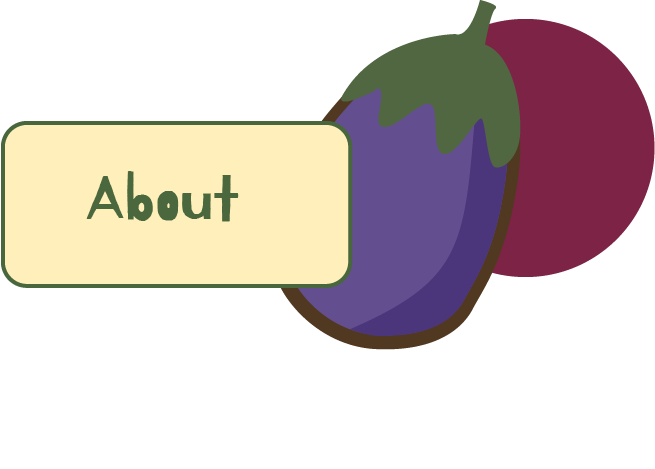
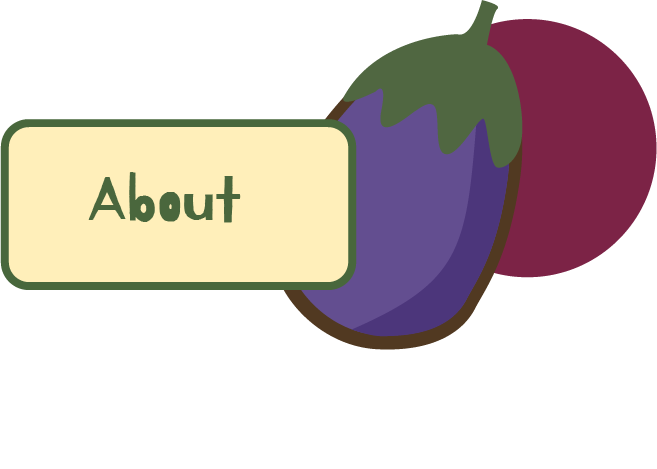
fourth commit

diff --git a/style.css b/style.css
@@ -2,7 +2,6 @@
 * {
     margin: 0;
     padding: 0;
-    /* box-sizing: border-box; */
 }
 
 body {
@@ -91,7 +90,7 @@ nav a.active {
 
 /* About Page Styles */
 .about-container {
-    /* max-width: 900px; */
+
     margin: 0 auto;
     padding: 2rem;
 }
@@ -108,34 +107,24 @@ nav a.active {
 }
 
 .about-icon img {
-    width: 220px;
-    height: 150px; 
+    width: 320px;
+    height: 250px; 
     position: absolute;
     top: 240px;
     left: 240px;
 }
-/* 
-.about-label {
-    background-color: blue;
-    padding: 0.5rem 1rem;
-    border-radius: 20px;
-    color: #4CAF50;
-    font-weight: bold;
-} */
 
 .about-content {
     position: relative;
     background-color: #ffeeba;
-    border: 3px solid #48673c;
+    border: 6px solid #48673c;
     border-radius: 20px;
     padding: 2rem;
     margin-top: 2rem;
 }
 
 .about-text {
-    font-family: "Montserrat", sans-serif;
-    font-optical-sizing: auto;
-    font-style: normal;
+    /* font-family: "Kirang Haerang", system-ui; */
     color: #880044;
     text-align: center;
     font-size: 1.6rem;
@@ -145,13 +134,13 @@ nav a.active {
 
 .info-link {
     position: absolute;
-    bottom: -20px;
-    right: -20px;
+    bottom: -190px;
+    right: -200px;
     display: flex;
     align-items: center;
     gap: 0.5rem;
-    width: max-content;
-    height: max-content; 
+    /* width: max-content;
+    height: max-content;  */
     /* background-color: #ffeeba;
     padding: 0.5rem 1rem;
     border-radius: 20px;
@@ -159,16 +148,19 @@ nav a.active {
     color: #4CAF50;
     font-weight: bold; */
 }
+#further-img {
+    width: 320px;
+    height: 250px; 
+} 
 
-#further-img{
-    width: 200x;
-    height: 400px;
-}
+/* further-img{
+    border: 6px solid black;
+}  */
 
-.info-link img {
+/* .info-link img {
     width: 30px;
     height: 30px;
-}
+} */
 
 /* Recipe Page Styles */
 .recipe-header {
@@ -215,11 +207,15 @@ nav a.active {
     color: #ffeeba;
     padding: 0.5rem 2rem;
     border-radius: 20px;
+    width: 80px;
+    height: 30px;
     text-decoration: none;
     font-weight: bold;
+    font-size: 1.5rem;
 }
 
-.reciple-link a:hover{
+
+ a:hover{
     text-decoration: underline;
 }
 
@@ -233,7 +229,7 @@ nav a.active {
     background-color: #ffeeba;
     border-radius: 20px;
     padding: 1rem;
-    border: 2px solid #48673c;
+    border: 4px solid #48673c;
 }
 
 .recipe-card img {
@@ -404,6 +400,78 @@ nav a.active {
     gap: 2rem;
     /* margin: 2.5rem;
     justify-items: center; */
+}
+
+/* Info page */
+
+.content-row {
+    display: flex;
+    align-items: flex-start;
+    gap: 30px;
+    margin-left: 20px;
+}
+
+.carrot-icon {
+    position: relative;
+    width: 120px;
+    height: 120px;
+    background-color: #FFA07A;
+    border-radius: 60% 60% 30% 30%;
+    transform: rotate(45deg);
+    flex-shrink: 0;
+}
+
+.info-button {
+    position: absolute;
+    top: 50%;
+    left: 50%;
+    transform: translate(-50%, -50%) rotate(-45deg);
+    background-color: var(--accent-yellow);
+    padding: 10px 20px;
+    border-radius: 20px;
+    font-weight: bold;
+}
+
+.resource-cards {
+    display: flex;
+    gap: 30px;
+}
+
+.resource-card {
+    background-color: var(--accent-yellow);
+    border: 3px solid var(--primary-green);
+    border-radius: 30px;
+    padding: 15px;
+    width: 300px;
+}
+
+.resource-card img {
+    width: 100%;
+    height: 150px;
+    object-fit: cover;
+    border-radius: 20px;
+}
+
+.resource-card h3 {
+    margin: 10px 0;
+}
+
+.quick-facts {
+    margin-top: 50px;
+}
+
+.quick-facts h2 {
+    color: var(--primary-burgundy);
+    margin-bottom: 30px;
+}
+
+.fact-container {
+    background-color: var(--accent-yellow);
+    border: 3px solid var(--primary-green);
+    border-radius: 30px;
+    padding: 20px;
+    margin-bottom: 20px;
+    text-align: center;
 }
 
 

diff --git a/about.html b/about.html
@@ -22,16 +22,19 @@
             <div class="about-header">
                 <div class="about-icon">
                     <img src="images/about-vege@2x_1.png" alt="About Icon">
-                    <!-- <span class="about-label">About</span> -->
                 </div>
             </div>
             
             <div class="about-content">
                 <div class="about-text">
-                    Lorem ipsum dolor sit amet, consectetuer adipiscing elit, sed diam nonummy nibh euismod tincidunt ut laoreet dolore magna aliquam erat volutpat. Ut wisi enim ad minim veniam, quis nostrud exerci tation ullamcorper suscipit lobortis nisl ut aliquip ex ea commodo consequat. Duis autem vel eum iriure dolor in hendrerit in vulputate velit esse mo. Lorem ipsum dolor sit amet, consectetuer adipiscing elit, sed diam nonummy nibh euismod tincidunt ut laoreet dolore magna aliquam erat volutpat. Ut wisi enim ad minim veniam, quis nostrud exerci tation ullamcorper suscipit lobortis nisl ut aliquip ex ea commodo consequat. Duis autem vel eum iriure dolor in hendrerit in vulputate velit esse mo. Lorem ipsum dolor sit amet, consectetuer adipiscing elit, sed diam nonummy nibh euismod tincidunt ut laoreet dolore magna aliquam erat volutpat. Ut wisi enim ad minim veniam, quis nostrud exerci tation ullamcorper suscipit lobortis nisl ut aliquip ex ea commodo consequat. Duis autem vel eum iriure dolor in hendrerit in vulputate velit esse mo
+                    An issue that I have always noticed but wasn’t often discussed is the amount of food waste created. As someone who has worked in several different cafes and restaurants the amount of food that is simply thrown out or discarded is absolutely shocking. Similarly I see plenty of food thrown out in households or in halls of residences and other commercial kitchens. I completed a project several years ago that skimmed the surface of this topic but did not offer any solutions so I knew I wanted to try and make a change with this website.
+
+                    This website will walk you through everything you need to know in terms of food waste, Why is it an issue, What you can do to reduce it, recipes, tips and tricks, compost guide all to help save food that would otherwise end up in the bin.
+
+                    I understand Kaitiakitanga as guardianship and protection of the natural land and resources. Any effort to protect or improve our natural world involved kaitiakitanga. In the context of Waste Less, Eat More it provides protection to the land by reducing waste and carbon emissions while looking after the food and resources that come from the land.
                 </div>
                 <div class="info-link">
-                    <img id="further-img" src="images/further-img.png">
+                    <img id="further-img" src="images/further-img_1.png">
                 </div>
             </div>
         </div>

diff --git a/info.html b/info.html
@@ -3,7 +3,7 @@
 <head>
     <meta charset="UTF-8">
     <meta name="viewport" content="width=device-width, initial-scale=1.0">
-    <title>Info - Waste Less, Eat More</title>
+    <title>Waste Less Eat More</title>
     <link rel="stylesheet" href="style.css">
 </head>
 <body>
@@ -18,12 +18,41 @@
     </nav>
 
     <main>
-        <h2>Information</h2>
-        <p>Information content goes here...</p>
-    </main>
+        <section class="resources">
+            <h2>Other websites/resources:</h2>
+            <div class="content-row">
+                <div class="carrot-icon">
+                    <div class="info-button">Info</div>
+                </div>
+                <div class="resource-cards">
+                    <div class="resource-card">
+                        <img src="https://images.unsplash.com/photo-1590779033100-9f60a05a013d?w=500" alt="Food">
+                        <h3>Website name</h3>
+                        <p>Lorem ipsum dolor sit amet, consectetuer adipiscing elit,</p>
+                    </div>
+                    <div class="resource-card">
+                        <img src="https://images.unsplash.com/photo-1590779033100-9f60a05a013d?w=500" alt="Food">
+                        <h3>Website name</h3>
+                        <p>Lorem ipsum dolor sit amet, consectetuer adipiscing elit,</p>
+                    </div>
+                    <div class="resource-card">
+                        <img src="https://images.unsplash.com/photo-1590779033100-9f60a05a013d?w=500" alt="Food">
+                        <h3>Website name</h3>
+                        <p>Lorem ipsum dolor sit amet, consectetuer adipiscing elit,</p>
+                    </div>
+                </div>
+            </div>
+        </section>
 
-    <footer>
-        <p>&copy; 2024 Waste Less, Eat More. All rights reserved.</p>
-    </footer>
+        <section class="quick-facts">
+            <h2>Quick facts:</h2>
+            <div class="fact-container">
+                <p>Lorem ipsum dolor sit amet, consectetuer adipiscing elit, sed diam nonummy nibh euismod tincidunt ut laoreet dolore magna aliquam erat volutpat. Ut wisi enim ad minim veniam, quis nostrud exerci tation</p>
+            </div>
+            <div class="fact-container">
+                <p>Lorem ipsum dolor sit amet, consectetuer adipiscing elit, sed diam nonummy nibh euismod tincidunt ut laoreet dolore magna aliquam erat volutpat. Ut wisi enim ad minim veniam, quis nostrud exerci tation</p>
+            </div>
+        </section>
+    </main>
 </body>
 </html>

diff --git a/compost.html b/compost.html
@@ -19,7 +19,7 @@
 
     <main>
         <div class="compost-grid">
-        <img id="compost-vege" src="images/compost-vege_3.svg">
+        <img id="compost-vege" src="images/compost-vege_5.svg">
         <div class="compost-text">
             Lorem ipsum dolor sit amet, consectetuer adipiscing elit, sed diam nonummy nibh euismod tincidunt ut laoreet dolore magna aliquam erat volutpat. Ut wisi enim ad minim veniam, quis nostrud exerci tation ullamcorper suscipit lobortis nisl ut aliquip ex ea commodo consequat. Duis autem vel eum iriure dolor in hendrerit in vulputate velit esse mo. Lorem ipsum dolor sit amet, consectetuer adipiscing elit, sed diam nonummy nibh euismod.
         </div>

diff --git a/recipes.html b/recipes.html
@@ -20,7 +20,7 @@
     <main>
         <div class="recipe-header">
             <div class="recipe-icon">
-                <img src="images/recipe-img_1.png" alt="Recipe Icon">
+                <img src="images/recipe-img_2.png" alt="Recipe Icon">
                 <!-- <span class="recipe-label">Recipes</span> -->
             </div>
             <div class="recipe-description">
